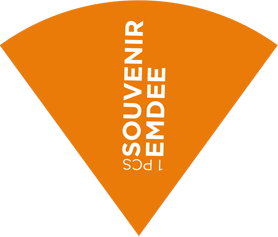
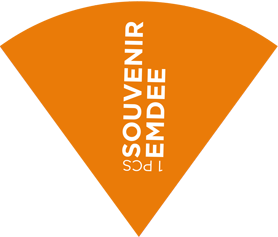
add pointer

diff --git a/index.html b/index.html
@@ -1,40 +1,21 @@
-<!--
-    Winhweel.js basic code wheel example by Douglas McKechie @ www.dougtesting.net
-    See website for tutorials and other documentation.
-
-    The MIT License (MIT)
-
-    Copyright (c) 2016 Douglas McKechie
-
-    Permission is hereby granted, free of charge, to any person obtaining a copy
-    of this software and associated documentation files (the "Software"), to deal
-    in the Software without restriction, including without limitation the rights
-    to use, copy, modify, merge, publish, distribute, sublicense, and/or sell
-    copies of the Software, and to permit persons to whom the Software is
-    furnished to do so, subject to the following conditions:
-
-    The above copyright notice and this permission notice shall be included in all
-    copies or substantial portions of the Software.
-
-    THE SOFTWARE IS PROVIDED "AS IS", WITHOUT WARRANTY OF ANY KIND, EXPRESS OR
-    IMPLIED, INCLUDING BUT NOT LIMITED TO THE WARRANTIES OF MERCHANTABILITY,
-    FITNESS FOR A PARTICULAR PURPOSE AND NONINFRINGEMENT. IN NO EVENT SHALL THE
-    AUTHORS OR COPYRIGHT HOLDERS BE LIABLE FOR ANY CLAIM, DAMAGES OR OTHER
-    LIABILITY, WHETHER IN AN ACTION OF CONTRACT, TORT OR OTHERWISE, ARISING FROM,
-    OUT OF OR IN CONNECTION WITH THE SOFTWARE OR THE USE OR OTHER DEALINGS IN THE
-    SOFTWARE.
--->
 <html>
     <head>
         <title>Spinwheel</title>
-        <link rel="stylesheet" href="main.css" type="text/css" />
+        <!-- <link rel="stylesheet" href="main.css" type="text/css" /> -->
         <script type="text/javascript" src="spinwheel.js"></script>
-        <script src="http://cdnjs.cloudflare.com/ajax/libs/gsap/latest/TweenMax.min.js"></script>
+        <script src="https://cdnjs.cloudflare.com/ajax/libs/gsap/latest/TweenMax.min.js"></script>
         <style type="text/css">
-            #prizePointer {
+            /*#prizePointer {
                 position: absolute;
                 left: 203px;
                 top: 5px;
+                z-index: 999;
+            }*/
+            .the_wheel
+            {
+                background-image: url(assets/wheel_back.png);
+                background-position: center;
+                background-repeat: none;
                 z-index: 999;
             }
         </style>
@@ -43,12 +24,15 @@
         <div align="center">
             <table cellspacing="0" border="0" cellpadding="0">
                 <tr>
-                    <td><canvas id="canvas" class="tutCanvas" width="500" height="500">Canvas not supported</canvas></td>
+                    <td width="500" height="555" class="the_wheel" align="center" valign="center">
+                        <canvas id="canvas" class="tutCanvas" width="500" height="515">Canvas not supported</canvas>
+                    </td>
+
                     <td width="50%">
                         <button id='bigButton' class='bigButton' onClick="calculatePrize(); this.disabled=true;">Spin the Wheel</button>
-                        <a href="javascript:void(0);" onClick="theWheel.stopAnimation(false); theWheel.rotationAngle=0; theWheel.draw(); drawTriangle(); bigButton.disabled=false;">Reset</a>
+                        <a href="javascript:void(0);" onClick="theWheel.stopAnimation(false); theWheel.rotationAngle=0; theWheel.draw(); bigButton.disabled=false;">Reset</a>
                     </td>
-                    <td id="prizePointer"><img id="prizePointer" src="assets/arrow.png" alt="V" /></td>
+                    <!-- <td id="prizePointer"><img id="prizePointer" src="assets/arrow.png" alt="V" /></td> -->
                 </tr>
             </table>
         </div>
@@ -58,6 +42,7 @@
                 'outerRadius'       : 200,               // Set outer radius so wheel fits inside the background.
                 'drawText'          : true,              // Code drawn text can be used with segment images.
                 'textFontSize'      : 16,
+                'centerY'           : 278,
                 'textOrientation'   : 'curved',
                 'textAlignment'     : 'inner',
                 'textMargin'        : 90,
@@ -72,38 +57,17 @@
                    {'image' : 'assets/prize2.png', 'caption' : '1 pcs Gold Bar 0.1 gr'},
                    {'image' : 'assets/prize3.png', 'caption' : '1 pcs Voucher 50.000'},
                    {'image' : 'assets/prize4.png', 'caption' : '1 pcs Emdee Lab'},
-                   {'image' : 'assets/prize5.png', 'caption' : '1 pcs Voucher Free 1x MD Skin Toning Rejuve'}
+                   {'image' : 'assets/prize5.png', 'caption' : '1 pcs Free Voucher Treatment'}
                 ],
                 'animation' :
                 {
                     'type'          : 'spinToStop',
                     'duration'      : 5,
                     'spins'         : 5,
-                    'callbackAfter' : 'drawTriangle()',
+                    // 'callbackAfter' : 'drawTriangle()',
                     'callbackFinished' : alertPrize
                 }
             });
-
-            // let theWheel = new Winwheel({
-            //     'numSegments'    : 5,
-            //     'outerRadius'    : 180,
-            //     'segments'       :
-            //     [
-            //        {'fillStyle' : '#eae56f', 'text' : 'Hadiah 1'},
-            //        {'fillStyle' : '#89f26e', 'text' : 'Hadiah 2'},
-            //        {'fillStyle' : '#7de6ef', 'text' : 'Hadiah 3'},
-            //        {'fillStyle' : '#e7706f', 'text' : 'Hadiah 4'},
-            //        {'fillStyle' : '#eae', 'text' : 'Hadiah 5'}
-            //     ],
-            //     'animation' :
-            //     {
-            //         'type'          : 'spinToStop',
-            //         'duration'      : 5,
-            //         'spins'         : 5,
-            //         'callbackAfter' : 'drawTriangle()',
-            //         'callbackFinished' : alertPrize
-            //     }
-            // });
          
             // Function with formula to work out stopAngle before spinning animation.
             // Called from Click of the Spin button.
@@ -119,7 +83,7 @@
                     stopAt = Math.floor((Math.random() * 359))
                 }
                 // while ((stopAt > 90 && stopAt < 135) || (stopAt > 315 && stopAt < 360)) // untuk 2 hadiah yang ditolak
-                while (stopAt > 72 && stopAt < 144) // untuk 1 hadiah yang ditolak
+                while (stopAt > 72 && stopAt < 145) // untuk 1 hadiah yang ditolak
                 // console.log(stopAt)
 
                 theWheel.animation.stopAngle = stopAt;
@@ -130,24 +94,24 @@
             }
          
             // Usual pointer drawing code.
-            drawTriangle();
+            // drawTriangle();
+
+            // function drawTriangle()
+            // {
+            //     // Get the canvas context the wheel uses.
+            //     let ctx = theWheel.ctx;
          
-            function drawTriangle()
-            {
-                // Get the canvas context the wheel uses.
-                let ctx = theWheel.ctx;
-         
-                ctx.strokeStyle = 'black';     // Set line colour.
-                ctx.fillStyle   = 'grey';     // Set fill colour.
-                ctx.lineWidth   = 2;
-                ctx.beginPath();              // Begin path.
-                ctx.moveTo(230, 5);           // Move to initial position.
-                ctx.lineTo(270, 5);           // Draw lines to make the shape.
-                ctx.lineTo(250, 40);
-                ctx.lineTo(231, 5);
-                ctx.stroke();                 // Complete the path by stroking (draw lines).
-                ctx.fill();                   // Then fill.
-            }
+            //     ctx.strokeStyle = 'black';     // Set line colour.
+            //     ctx.fillStyle   = 'grey';     // Set fill colour.
+            //     ctx.lineWidth   = 2;
+            //     ctx.beginPath();              // Begin path.
+            //     ctx.moveTo(230, 5);           // Move to initial position.
+            //     ctx.lineTo(270, 5);           // Draw lines to make the shape.
+            //     ctx.lineTo(250, 40);
+            //     ctx.lineTo(231, 5);
+            //     ctx.stroke();                 // Complete the path by stroking (draw lines).
+            //     ctx.fill();                   // Then fill.
+            // }
 
             function alertPrize(indicatedSegment)
             {

diff --git a/index - backup.html b/index - backup.html
@@ -1,0 +1,160 @@
+<!--
+    Winhweel.js basic code wheel example by Douglas McKechie @ www.dougtesting.net
+    See website for tutorials and other documentation.
+
+    The MIT License (MIT)
+
+    Copyright (c) 2016 Douglas McKechie
+
+    Permission is hereby granted, free of charge, to any person obtaining a copy
+    of this software and associated documentation files (the "Software"), to deal
+    in the Software without restriction, including without limitation the rights
+    to use, copy, modify, merge, publish, distribute, sublicense, and/or sell
+    copies of the Software, and to permit persons to whom the Software is
+    furnished to do so, subject to the following conditions:
+
+    The above copyright notice and this permission notice shall be included in all
+    copies or substantial portions of the Software.
+
+    THE SOFTWARE IS PROVIDED "AS IS", WITHOUT WARRANTY OF ANY KIND, EXPRESS OR
+    IMPLIED, INCLUDING BUT NOT LIMITED TO THE WARRANTIES OF MERCHANTABILITY,
+    FITNESS FOR A PARTICULAR PURPOSE AND NONINFRINGEMENT. IN NO EVENT SHALL THE
+    AUTHORS OR COPYRIGHT HOLDERS BE LIABLE FOR ANY CLAIM, DAMAGES OR OTHER
+    LIABILITY, WHETHER IN AN ACTION OF CONTRACT, TORT OR OTHERWISE, ARISING FROM,
+    OUT OF OR IN CONNECTION WITH THE SOFTWARE OR THE USE OR OTHER DEALINGS IN THE
+    SOFTWARE.
+-->
+<html>
+    <head>
+        <title>Spinwheel</title>
+        <link rel="stylesheet" href="main.css" type="text/css" />
+        <script type="text/javascript" src="spinwheel.js"></script>
+        <script src="http://cdnjs.cloudflare.com/ajax/libs/gsap/latest/TweenMax.min.js"></script>
+        <style type="text/css">
+            #prizePointer {
+                position: absolute;
+                left: 203px;
+                top: 5px;
+                z-index: 999;
+            }
+        </style>
+    </head>
+    <body>
+        <div align="center">
+            <table cellspacing="0" border="0" cellpadding="0">
+                <tr>
+                    <td><canvas id="canvas" class="tutCanvas" width="500" height="500">Canvas not supported</canvas></td>
+                    <td width="50%">
+                        <button id='bigButton' class='bigButton' onClick="calculatePrize(); this.disabled=true;">Spin the Wheel</button>
+                        <a href="javascript:void(0);" onClick="theWheel.stopAnimation(false); theWheel.rotationAngle=0; theWheel.draw(); drawTriangle(); bigButton.disabled=false;">Reset</a>
+                    </td>
+                    <td id="prizePointer"><img id="prizePointer" src="assets/arrow.png" alt="V" /></td>
+                </tr>
+            </table>
+        </div>
+        <script>
+            var theWheel = new Winwheel({
+                'numSegments'       : 5,                 // Specify number of segments.
+                'outerRadius'       : 200,               // Set outer radius so wheel fits inside the background.
+                'drawText'          : true,              // Code drawn text can be used with segment images.
+                'textFontSize'      : 16,
+                'textOrientation'   : 'curved',
+                'textAlignment'     : 'inner',
+                'textMargin'        : 90,
+                'textFontFamily'    : 'monospace',
+                'textStrokeStyle'   : 'black',
+                'textLineWidth'     : 3,
+                'textFillStyle'     : 'white',
+                'drawMode'          : 'segmentImage',    // Must be segmentImage to draw wheel using one image per segemnt.
+                'segments'          :                    // Define segments including image and text.
+                [
+                   {'image' : 'assets/prize1.png', 'caption' : '1 pcs Souvenir Emdee'},
+                   {'image' : 'assets/prize2.png', 'caption' : '1 pcs Gold Bar 0.1 gr'},
+                   {'image' : 'assets/prize3.png', 'caption' : '1 pcs Voucher 50.000'},
+                   {'image' : 'assets/prize4.png', 'caption' : '1 pcs Emdee Lab'},
+                   {'image' : 'assets/prize5.png', 'caption' : '1 pcs Voucher Free 1x MD Skin Toning Rejuve'}
+                ],
+                'animation' :
+                {
+                    'type'          : 'spinToStop',
+                    'duration'      : 5,
+                    'spins'         : 5,
+                    'callbackAfter' : 'drawTriangle()',
+                    'callbackFinished' : alertPrize
+                }
+            });
+
+            // let theWheel = new Winwheel({
+            //     'numSegments'    : 5,
+            //     'outerRadius'    : 180,
+            //     'segments'       :
+            //     [
+            //        {'fillStyle' : '#eae56f', 'text' : 'Hadiah 1'},
+            //        {'fillStyle' : '#89f26e', 'text' : 'Hadiah 2'},
+            //        {'fillStyle' : '#7de6ef', 'text' : 'Hadiah 3'},
+            //        {'fillStyle' : '#e7706f', 'text' : 'Hadiah 4'},
+            //        {'fillStyle' : '#eae', 'text' : 'Hadiah 5'}
+            //     ],
+            //     'animation' :
+            //     {
+            //         'type'          : 'spinToStop',
+            //         'duration'      : 5,
+            //         'spins'         : 5,
+            //         'callbackAfter' : 'drawTriangle()',
+            //         'callbackFinished' : alertPrize
+            //     }
+            // });
+         
+            // Function with formula to work out stopAngle before spinning animation.
+            // Called from Click of the Spin button.
+            function calculatePrize()
+            {
+                // This formula always makes the wheel stop somewhere inside prize 3 at least
+                // 1 degree away from the start and end edges of the segment.
+                // let stopAt = (30 + Math.floor((Math.random() * 43)))
+                
+                // Important thing is to set the stopAngle of the animation before stating the spin.
+                let stopAt = 0
+                do {
+                    stopAt = Math.floor((Math.random() * 359))
+                }
+                // while ((stopAt > 90 && stopAt < 135) || (stopAt > 315 && stopAt < 360)) // untuk 2 hadiah yang ditolak
+                while (stopAt > 72 && stopAt < 144) // untuk 1 hadiah yang ditolak
+                // console.log(stopAt)
+
+                theWheel.animation.stopAngle = stopAt;
+                
+                // May as well start the spin from here.
+                theWheel.startAnimation();
+                // alert(stopAt);
+            }
+         
+            // Usual pointer drawing code.
+            drawTriangle();
+         
+            function drawTriangle()
+            {
+                // Get the canvas context the wheel uses.
+                let ctx = theWheel.ctx;
+         
+                ctx.strokeStyle = 'black';     // Set line colour.
+                ctx.fillStyle   = 'grey';     // Set fill colour.
+                ctx.lineWidth   = 2;
+                ctx.beginPath();              // Begin path.
+                ctx.moveTo(230, 5);           // Move to initial position.
+                ctx.lineTo(270, 5);           // Draw lines to make the shape.
+                ctx.lineTo(250, 40);
+                ctx.lineTo(231, 5);
+                ctx.stroke();                 // Complete the path by stroking (draw lines).
+                ctx.fill();                   // Then fill.
+            }
+
+            function alertPrize(indicatedSegment)
+            {
+                // Do basic alert of the segment text.
+                alert("Selamat, kamu dapat " + indicatedSegment.caption);
+            }
+         
+        </script>
+    </body>
+</html>
